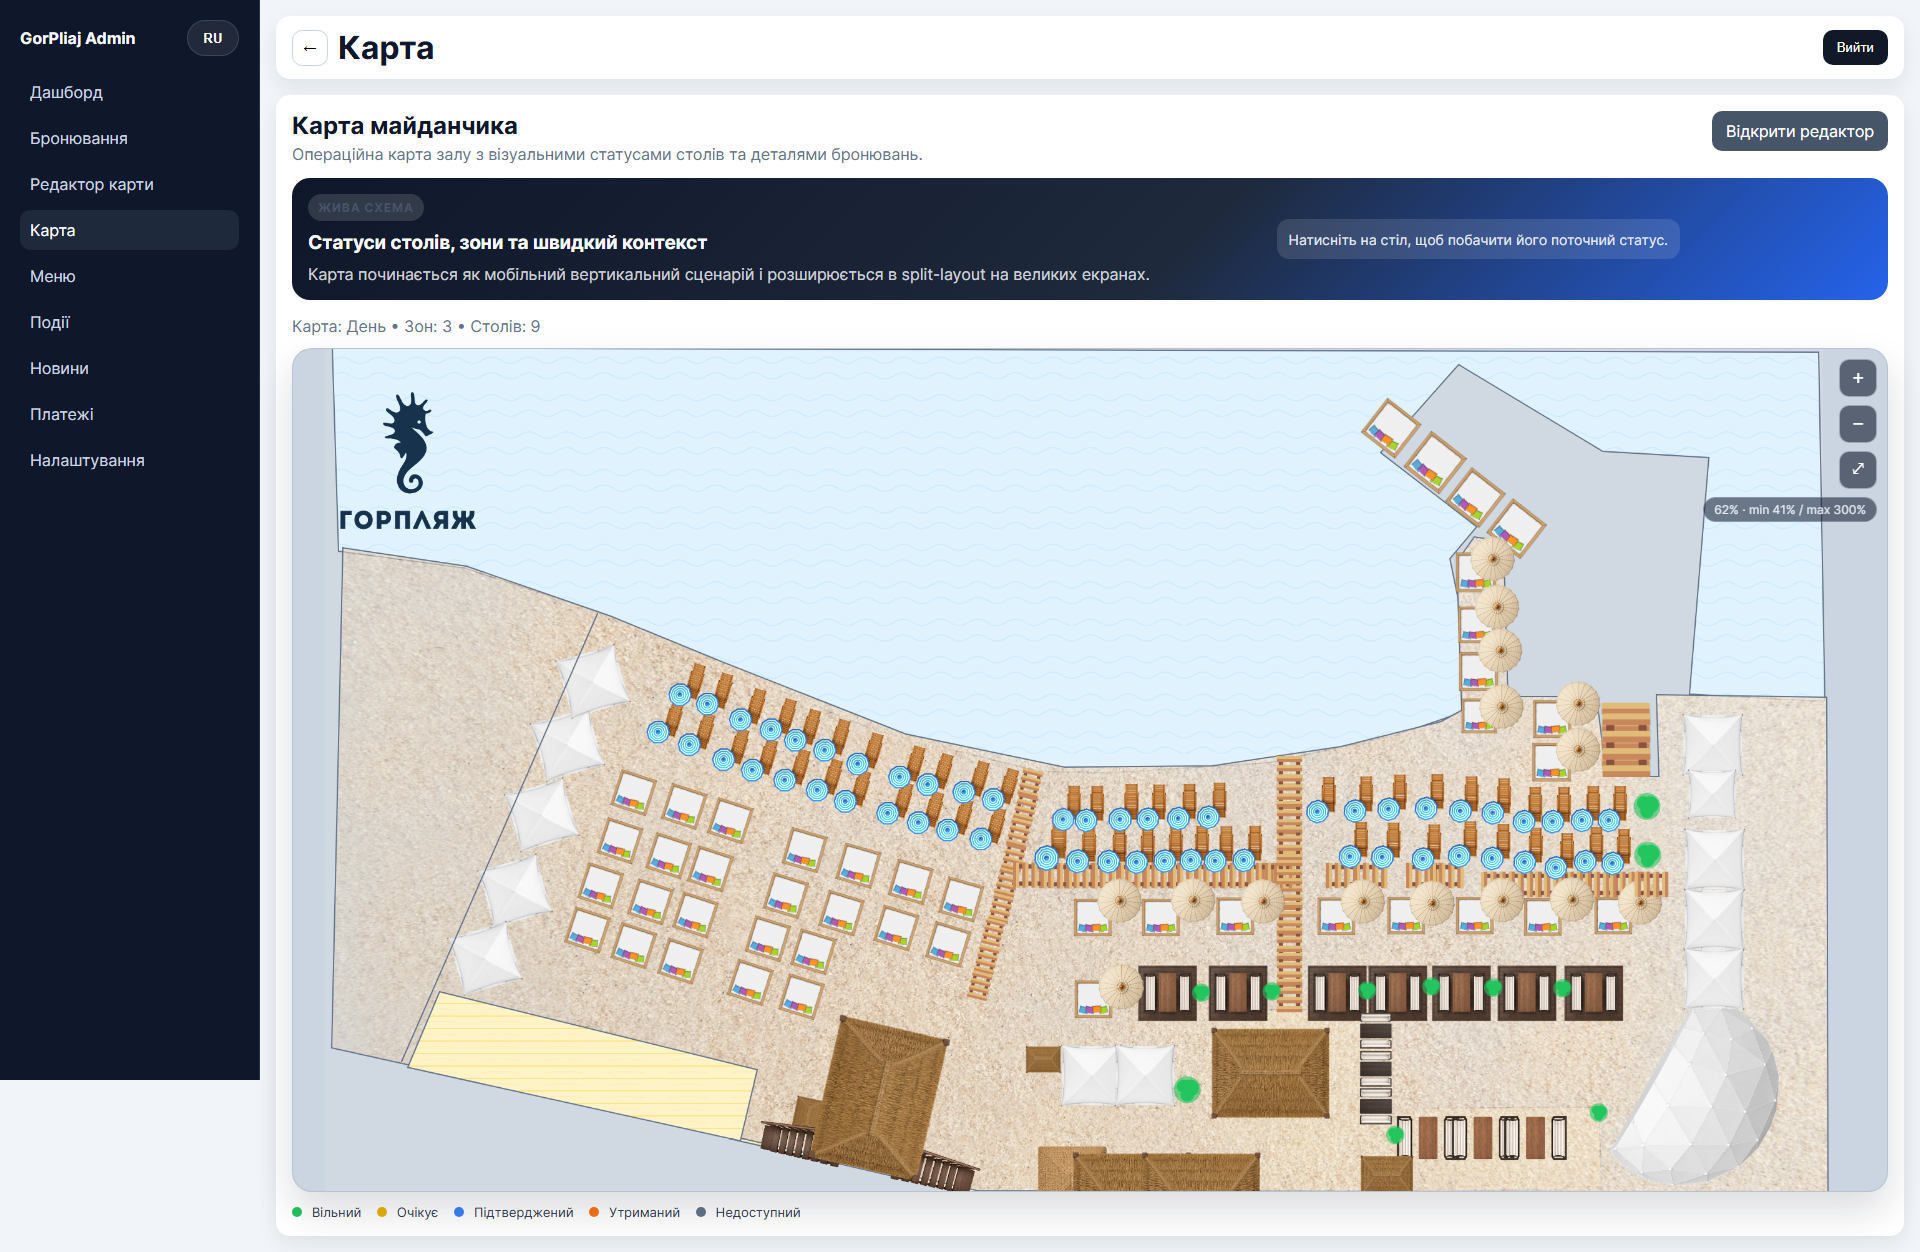
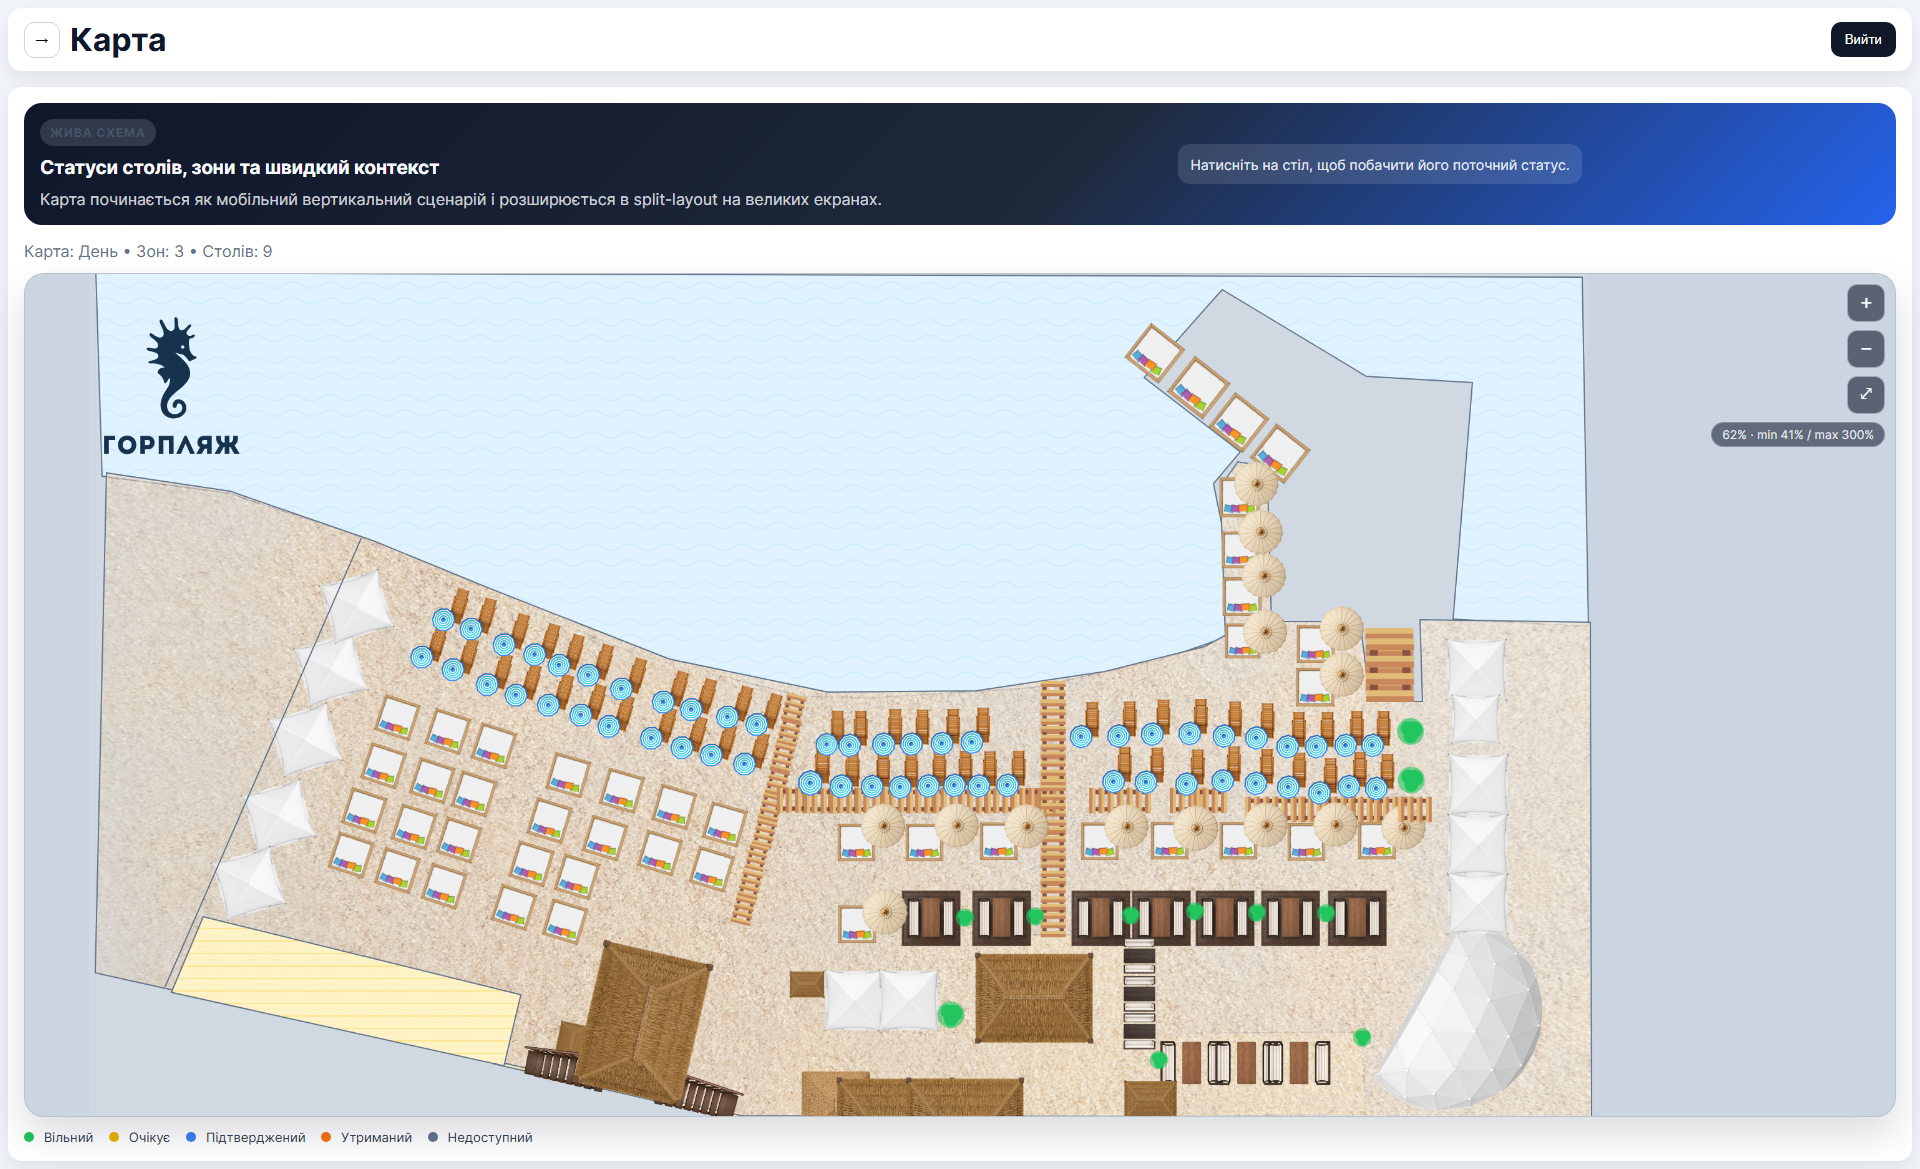
fix initial centering broken by clampTranslate change

diff --git a/verify-deploy4.js b/verify-deploy4.js
@@ -1,0 +1,40 @@
+const https = require('https');
+https.get('https://gorpliaj.pp.ua/admin/assets/index-B_LMBBtk.js', { headers: { 'Accept-Encoding': 'identity' } }, (res) => {
+  let data = '';
+  res.on('data', (c) => (data += c));
+  res.on('end', () => {
+    // Search for the path detection using startsWith
+    // The minified code should have: startsWith("/admin/map-editor") || path === "/admin/map"
+    // or: path.startsWith("/admin/map-editor") || path === "/admin/map"
+    // After minification, variable names are single letters
+    
+    // Look for startsWith pattern near map-editor
+    const sw = data.indexOf('.startsWith');
+    const occurrences = [];
+    let idx = -1;
+    while ((idx = data.indexOf('.startsWith', idx + 1)) >= 0) {
+      const ctx = data.substring(Math.max(0, idx - 30), idx + 60);
+      if (ctx.includes('map') || ctx.includes('admin')) {
+        occurrences.push(ctx);
+      }
+    }
+    console.log('startsWith occurrences with map/admin:');
+    occurrences.forEach(o => console.log('  ', o));
+    
+    // Also check for the combined condition (||)
+    const orIdx = data.indexOf('||');
+    if (orIdx >= 0) {
+      // Find || near path comparisons
+      const orPatterns = [];
+      let oi = -1;
+      while ((oi = data.indexOf('||', oi + 1)) >= 0) {
+        const ctx = data.substring(Math.max(0, oi - 40), oi + 60);
+        if (ctx.includes('map') || ctx.includes('path')) {
+          orPatterns.push(ctx);
+        }
+      }
+      console.log('\n|| patterns with map/path:');
+      orPatterns.forEach(o => console.log('  ', o));
+    }
+  });
+});

diff --git a/verify-deploy2.js b/verify-deploy2.js
@@ -1,0 +1,33 @@
+const https = require('https');
+https.get('https://gorpliaj.pp.ua/admin/assets/index-B_LMBBtk.js', { headers: { 'Accept-Encoding': 'identity' } }, (res) => {
+  let data = '';
+  res.on('data', (c) => (data += c));
+  res.on('end', () => {
+    // Search for the collapsed sidebar detection logic
+    // It should contain the pattern: startsWith("/admin/map-editor") || path === "/admin/map"
+    // After minification it could be: startsWith("/admin/map-editor")||"/admin/map"===path
+    const patterns = [
+      'startsWith("/admin/map-editor")',
+      '"/admin/map"===path',
+      'path==="/admin/map"'
+    ];
+    patterns.forEach(p => console.log(p + ':', data.includes(p)));
+    
+    // Search around the startsWith area
+    const idx = data.indexOf('startsWith');
+    if (idx >= 0) {
+      console.log('Found startsWith context:', data.substring(idx, idx + 120));
+    }
+    
+    // Search for "fullscreen" or renamed variable patterns
+    const fsIdx = data.indexOf('Fullscreen');
+    if (fsIdx >= 0) console.log('Fullscreen found');
+    
+    // Check for map-editor and map in close proximity
+    const meIdx = data.indexOf('map-editor');
+    if (meIdx >= 0) {
+      const after = data.substring(meIdx, meIdx + 80);
+      console.log('After map-editor:', after);
+    }
+  });
+});

diff --git a/verify-deploy3.js b/verify-deploy3.js
@@ -1,0 +1,27 @@
+const https = require('https');
+https.get('https://gorpliaj.pp.ua/admin/assets/index-B_LMBBtk.js', { headers: { 'Accept-Encoding': 'identity' } }, (res) => {
+  let data = '';
+  res.on('data', (c) => (data += c));
+  res.on('end', () => {
+    // Search for the pattern: path.startsWith("/admin/map-editor") || path === "/admin/map"
+    // After minification it might be: path.startsWith("...")||path==="..."
+    // Or with the variable being just a letter
+    // Search for "/admin/map-editor" near "/admin/map" in a single expression
+    const idx1 = data.indexOf('"/admin/map-editor"');
+    if (idx1 >= 0) {
+      const after = data.substring(idx1, idx1 + 100);
+      console.log('Context 1:', after);
+    }
+    // Also search for the pattern around sidebar-collapsed
+    const scIdx = data.indexOf('sidebar-collapsed');
+    if (scIdx >= 0) {
+      console.log('sidebar-collapsed context:', data.substring(Math.max(0, scIdx - 150), scIdx + 30));
+    }
+    
+    // Check for the map-editor-shell class
+    const mesIdx = data.indexOf('map-editor-shell');
+    if (mesIdx >= 0) {
+      console.log('map-editor-shell context:', data.substring(Math.max(0, mesIdx - 80), mesIdx + 30));
+    }
+  });
+});

diff --git a/verify-deploy.js b/verify-deploy.js
@@ -1,0 +1,12 @@
+const https = require('https');
+const url = 'https://gorpliaj.pp.ua/admin/assets/index-B_LMBBtk.js';
+https.get(url, { headers: { 'Accept-Encoding': 'identity' } }, (res) => {
+  let data = '';
+  res.on('data', (c) => (data += c));
+  res.on('end', () => {
+    console.log('has map-editor check:', data.includes('/admin/map-editor'));
+    console.log('has map check:', data.includes('"/admin/map"'));
+    const i = data.indexOf('/admin/map');
+    console.log('context:', data.substring(Math.max(0, i - 40), i + 50));
+  });
+});

diff --git a/admin-frontend/src/hooks/useInteractiveMap.js b/admin-frontend/src/hooks/useInteractiveMap.js
@@ -107,7 +107,9 @@ export function useInteractiveMap({ worldWidth, worldHeight, minScale: minScaleP
       setTransform((current) => {
         const isPristine = current.scale === 1 && current.translateX === 0 && current.translateY === 0;
         const seedScale = isPristine ? getFitViewScale(nextViewport, worldWidth, worldHeight) : current.scale;
-        return clampTranslate(current.translateX, current.translateY, seedScale, nextViewport);
+        const nextTx = isPristine ? (nextViewport.width - worldWidth * seedScale) / 2 : current.translateX;
+        const nextTy = isPristine ? (nextViewport.height - worldHeight * seedScale) / 2 : current.translateY;
+        return clampTranslate(nextTx, nextTy, seedScale, nextViewport);
       });
     });
 

diff --git a/public/admin-app/index.html b/public/admin-app/index.html
@@ -6,7 +6,7 @@
     <title>GorPliaj Admin</title>
     <meta name="theme-color" content="#1e293b" />
     <link rel="manifest" href="/admin.webmanifest" />
-    <script type="module" crossorigin src="/admin/assets/index-B_LMBBtk.js"></script>
+    <script type="module" crossorigin src="/admin/assets/index-CtjLBkc0.js"></script>
     <link rel="stylesheet" crossorigin href="/admin/assets/index-C4fucy0U.css">
   </head>
   <body>